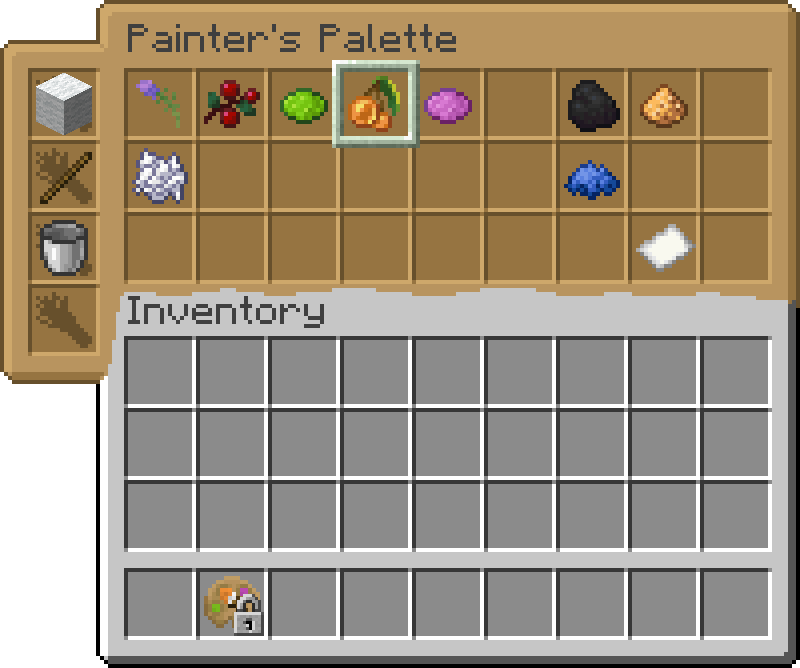
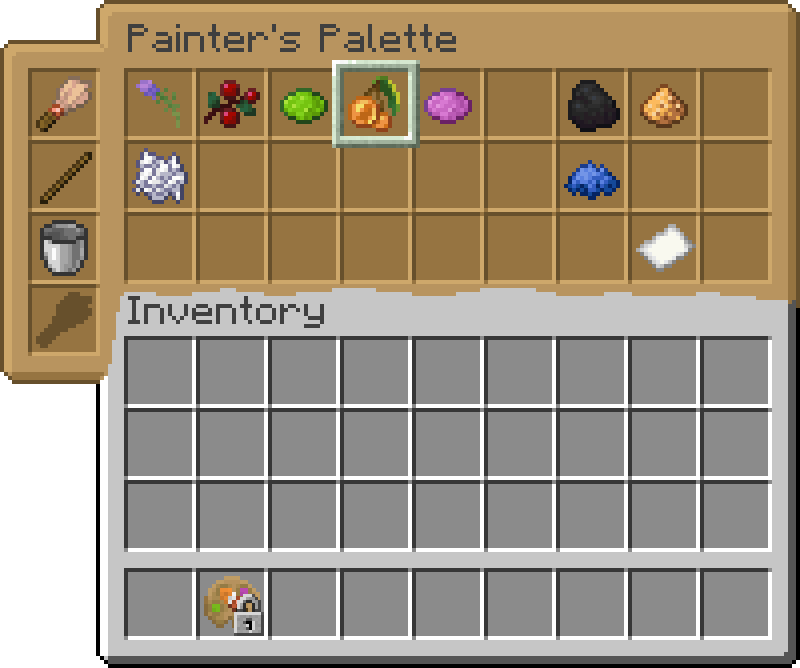
Replace wool with brush for blackboards, improve painter's palette GUI and fix some issues.

Changed region(s): [[0.0312, 0.0898, 0.125, 0.2994], [0.0312, 0.3892, 0.125, 0.5389], [0.2812, 0.8982, 0.3125, 0.9281]]

diff --git a/src/main/java/dev/lambdaurora/aurorasdeco/client/tooltip/PainterPaletteTooltipComponent.java b/src/main/java/dev/lambdaurora/aurorasdeco/client/tooltip/PainterPaletteTooltipComponent.java
@@ -20,6 +20,7 @@ package dev.lambdaurora.aurorasdeco.client.tooltip;
 import com.mojang.blaze3d.systems.RenderSystem;
 import dev.lambdaurora.aurorasdeco.blackboard.BlackboardColor;
 import dev.lambdaurora.aurorasdeco.item.PainterPaletteItem;
+import net.minecraft.client.MinecraftClient;
 import net.minecraft.client.font.TextRenderer;
 import net.minecraft.client.gui.DrawableHelper;
 import net.minecraft.client.gui.screen.ingame.HandledScreen;
@@ -39,7 +40,7 @@ import org.quiltmc.loader.api.minecraft.ClientOnly;
  * Represents the painter's palette tooltip component.
  *
  * @author LambdAurora
- * @version 1.0.0-beta.6
+ * @version 1.0.0-beta.13
  * @since 1.0.0-beta.6
  */
 @ClientOnly
@@ -49,7 +50,8 @@ public class PainterPaletteTooltipComponent implements TooltipComponent {
 
 	public PainterPaletteTooltipComponent(PainterPaletteItem.PainterPaletteInventory inventory) {
 		this.inventory = inventory;
-		this.selectedToolText = PainterPaletteItem.getSelectedToolMessage(inventory).formatted(Formatting.GRAY);
+		var enabledFlags = MinecraftClient.getInstance().world.getEnabledFlags();
+		this.selectedToolText = PainterPaletteItem.getSelectedToolMessage(inventory, enabledFlags).formatted(Formatting.GRAY);
 	}
 
 	@Override
@@ -92,47 +94,43 @@ public class PainterPaletteTooltipComponent implements TooltipComponent {
 
 		matrices.push();
 		y += 12;
+
 		matrices.translate(x, y, 0);
-
-		this.drawSlot(matrices, 0, true, false);
-		if (!previousColorStack.isEmpty()) {
-			itemRenderer.method_32797(matrices, previousColorStack, x + 2, y + 2, inventory.getSlotOf(previousColorStack));
-			itemRenderer.method_4025(matrices, textRenderer, previousColorStack, x + 2, y + 2);
-			this.drawColorOverlay(matrices, previousColorStack);
-		}
+		this.drawSlot(matrices, itemRenderer, textRenderer, previousColorStack, inventory.getSlotOf(previousColorStack), true, false);
 
 		matrices.translate(18, 0, 0);
-		this.drawSlot(matrices, 0, false, false);
-		itemRenderer.method_32797(matrices, primaryColorStack, x + 18 + 2, y + 2, inventory.getSelectedColorSlot());
-		itemRenderer.method_4025(matrices, textRenderer, primaryColorStack, x + 18 + 2, y + 2);
-		this.drawColorOverlay(matrices, primaryColorStack);
-		HandledScreen.drawSlotHighlight(matrices, x + 1, y + 1, 0);
+		this.drawSlot(matrices, itemRenderer, textRenderer, primaryColorStack, inventory.getSelectedColorSlot(), false, false);
+		HandledScreen.drawSlotHighlight(matrices, 2, 2, 0);
 
 		matrices.translate(18, 0, 0);
-		this.drawSlot(matrices, 0, false, true);
-		if (!previousColorStack.isEmpty()) {
-			itemRenderer.method_32797(matrices, nextColorStack, x + 18 * 2 + 2, y + 2, inventory.getSlotOf(nextColorStack));
-			itemRenderer.method_4025(matrices, textRenderer, nextColorStack, x + 18 * 2 + 2, y + 2);
-			this.drawColorOverlay(matrices, nextColorStack);
-		}
+		this.drawSlot(matrices, itemRenderer, textRenderer, nextColorStack, inventory.getSlotOf(nextColorStack), false, true);
 
 		matrices.pop();
 	}
 
-	private void drawSlot(MatrixStack matrices, int z, boolean start, boolean end) {
-		this.drawSlotPart(matrices, 1, 1, z, 0, 0, 18, 20);
+	private void drawSlot(
+			MatrixStack matrices, ItemRenderer itemRenderer, TextRenderer textRenderer, ItemStack stack,
+			int index, boolean start, boolean end
+	) {
+		this.drawSlotPart(matrices, 1, 1, 0, 0, 0, 18, 20);
 
-		if (start) this.drawSlotPart(matrices, 0, 0, z, 0, 20, 1, 1);
-		if (end) this.drawSlotPart(matrices, 0, 0, z, 0, 20, 1, 1);
+		if (start) this.drawSlotPart(matrices, 0, 0, 0, 0, 20, 1, 1);
+		if (end) this.drawSlotPart(matrices, 0, 0, 0, 0, 20, 1, 1);
 
-		this.drawSlotPart(matrices, 1, 0, z, 0, 20, 18, 1);
-		this.drawSlotPart(matrices, 1, 20, z, 0, 60, 18, 1);
+		this.drawSlotPart(matrices, 1, 0, 0, 0, 20, 18, 1);
+		this.drawSlotPart(matrices, 1, 20, 0, 0, 60, 18, 1);
 
-		if (start) this.drawSlotPart(matrices, 0, 0, z, 0, 18, 1, 20);
-		if (end) this.drawSlotPart(matrices, 18 + 1, 0, z, 0, 18, 1, 20);
+		if (start) this.drawSlotPart(matrices, 0, 0, 0, 0, 18, 1, 20);
+		if (end) this.drawSlotPart(matrices, 18 + 1, 0, 0, 0, 18, 1, 20);
 
-		if (start) this.drawSlotPart(matrices, 0, 20, z, 0, 60, 1, 1);
-		if (end) this.drawSlotPart(matrices, 18 + 1, 20, z, 0, 60, 1, 1);
+		if (start) this.drawSlotPart(matrices, 0, 20, 0, 0, 60, 1, 1);
+		if (end) this.drawSlotPart(matrices, 18 + 1, 20, 0, 0, 60, 1, 1);
+
+		if (!stack.isEmpty()) {
+			itemRenderer.method_32797(matrices, stack, 2, 2, index);
+			itemRenderer.method_4025(matrices, textRenderer, stack, 2, 2);
+			this.drawColorOverlay(matrices, stack);
+		}
 	}
 
 	private void drawColorOverlay(MatrixStack matrices, ItemStack stack) {

diff --git a/src/main/java/dev/lambdaurora/aurorasdeco/blackboard/Blackboard.java b/src/main/java/dev/lambdaurora/aurorasdeco/blackboard/Blackboard.java
@@ -21,6 +21,8 @@ import net.fabricmc.fabric.api.renderer.v1.RendererAccess;
 import net.fabricmc.fabric.api.renderer.v1.mesh.Mesh;
 import net.fabricmc.fabric.api.renderer.v1.mesh.MutableQuadView;
 import net.minecraft.client.texture.Sprite;
+import net.minecraft.feature_flags.FeatureFlagBitSet;
+import net.minecraft.feature_flags.FeatureFlags;
 import net.minecraft.item.Item;
 import net.minecraft.item.Items;
 import net.minecraft.nbt.NbtCompound;
@@ -365,28 +367,49 @@ public class Blackboard implements BlackboardHandler {
 	}
 
 	public enum DrawAction {
-		DEFAULT(null, "aurorasdeco.blackboard.tool.pixel") {
+		DEFAULT("aurorasdeco.blackboard.tool.pixel") {
+			@Override
+			public @Nullable Item getOffHandTool(FeatureFlagBitSet enabledFeatures) {
+				return null;
+			}
+
 			@Override
 			public boolean execute(BlackboardHandler blackboard, int x, int y, BlackboardDrawModifier modifier) {
 				short colorData = blackboard.getPixel(x, y);
 				return blackboard.setPixel(x, y, modifier.apply(colorData));
 			}
 		},
-		BRUSH(Items.WHITE_WOOL, "aurorasdeco.blackboard.tool.brush") {
+		BRUSH("aurorasdeco.blackboard.tool.brush") {
+			@Override
+			public @Nullable Item getOffHandTool(FeatureFlagBitSet enabledFeatures) {
+				if (enabledFeatures.hasFlag(FeatureFlags.UPDATE_1_20)) return Items.BRUSH;
+				else return Items.WHITE_WOOL;
+			}
+
 			@Override
 			public boolean execute(BlackboardHandler blackboard, int x, int y, BlackboardDrawModifier modifier) {
 				short colorData = blackboard.getPixel(x, y);
 				return blackboard.brush(x, y, modifier.apply(colorData));
 			}
 		},
-		FILL(Items.BUCKET, "aurorasdeco.blackboard.tool.fill") {
+		FILL("aurorasdeco.blackboard.tool.fill") {
+			@Override
+			public @Nullable Item getOffHandTool(FeatureFlagBitSet enabledFeatures) {
+				return Items.BUCKET;
+			}
+
 			@Override
 			public boolean execute(BlackboardHandler blackboard, int x, int y, BlackboardDrawModifier modifier) {
 				short colorData = blackboard.getPixel(x, y);
 				return blackboard.fill(x, y, modifier.apply(colorData));
 			}
 		},
-		REPLACE(Items.ENDER_PEARL, "aurorasdeco.blackboard.tool.replace") {
+		REPLACE("aurorasdeco.blackboard.tool.replace") {
+			@Override
+			public @Nullable Item getOffHandTool(FeatureFlagBitSet enabledFeatures) {
+				return Items.ENDER_PEARL;
+			}
+
 			@Override
 			public boolean execute(BlackboardHandler blackboard, int x, int y, BlackboardDrawModifier modifier) {
 				short colorData = blackboard.getPixel(x, y);
@@ -396,21 +419,17 @@ public class Blackboard implements BlackboardHandler {
 
 		public static final List<DrawAction> ACTIONS = List.of(values());
 
-		private final Item offhandTool;
 		private final String translationKey;
 
-		DrawAction(@Nullable Item offhandTool, @NotNull String translationKey) {
-			this.offhandTool = offhandTool;
+		DrawAction(@NotNull String translationKey) {
 			this.translationKey = translationKey;
-		}
-
-		public @Nullable Item getOffHandTool() {
-			return this.offhandTool;
 		}
 
 		public Text getName() {
 			return Text.translatable(this.translationKey);
 		}
+
+		public abstract @Nullable Item getOffHandTool(FeatureFlagBitSet enabledFeatures);
 
 		public abstract boolean execute(BlackboardHandler blackboard, int x, int y, BlackboardDrawModifier modifier);
 	}

diff --git a/src/main/java/dev/lambdaurora/aurorasdeco/item/PainterPaletteItem.java b/src/main/java/dev/lambdaurora/aurorasdeco/item/PainterPaletteItem.java
@@ -26,6 +26,7 @@ import dev.lambdaurora.aurorasdeco.screen.PainterPaletteScreenHandler;
 import dev.lambdaurora.aurorasdeco.tooltip.PainterPaletteTooltipData;
 import net.minecraft.client.item.TooltipData;
 import net.minecraft.entity.player.PlayerEntity;
+import net.minecraft.feature_flags.FeatureFlagBitSet;
 import net.minecraft.inventory.SimpleInventory;
 import net.minecraft.inventory.StackReference;
 import net.minecraft.item.Item;
@@ -52,7 +53,7 @@ import java.util.Optional;
  * Represents a painter's palette item which can be used for easier painting on blackboards.
  *
  * @author LambdAurora
- * @version 1.0.0-beta.11
+ * @version 1.0.0-beta.13
  * @since 1.0.0-beta.6
  */
 public class PainterPaletteItem extends Item {
@@ -75,10 +76,10 @@ public class PainterPaletteItem extends Item {
 		return inventory.getSelectedTool();
 	}
 
-	public static MutableText getSelectedToolMessage(PainterPaletteInventory inventory) {
+	public static MutableText getSelectedToolMessage(PainterPaletteInventory inventory, FeatureFlagBitSet enabledFeatures) {
 		Text toolName = Blackboard.DrawAction.ACTIONS.stream()
 				.filter(drawAction -> {
-					var offHandTool = drawAction.getOffHandTool();
+					var offHandTool = drawAction.getOffHandTool(enabledFeatures);
 					var selectedTool = inventory.getSelectedTool();
 
 					return (offHandTool == null && selectedTool.isEmpty()) || selectedTool.isOf(offHandTool);
@@ -179,7 +180,7 @@ public class PainterPaletteItem extends Item {
 					else paletteStack.removeSubNbt("inventory");
 					player.playerScreenHandler.sendContentUpdates();
 
-					var message = getSelectedToolMessage(inventory);
+					var message = getSelectedToolMessage(inventory, player.getWorld().getEnabledFlags());
 					BlackboardColor primaryColor = BlackboardColor.fromItem(inventory.getSelectedColor().getItem());
 
 					if (primaryColor != null && primaryColor != BlackboardColor.EMPTY) message.styled(style -> style.withColor(primaryColor.getColor()));
@@ -227,7 +228,6 @@ public class PainterPaletteItem extends Item {
 		private static final int SIZE = COLOR_SIZE + TOOLS_SIZE;
 		private static final String SELECTED_COLOR_KEY = "selected_color";
 		private static final String SELECTED_TOOL_KEY = "selected_tool";
-
 		private byte selectedColor = 0;
 		private byte selectedTool = -1;
 

diff --git a/src/main/java/dev/lambdaurora/aurorasdeco/client/screen/PainterPaletteScreen.java b/src/main/java/dev/lambdaurora/aurorasdeco/client/screen/PainterPaletteScreen.java
@@ -36,7 +36,7 @@ import org.quiltmc.loader.api.minecraft.ClientOnly;
  * Represents the painter's palette container screen.
  *
  * @author LambdAurora
- * @version 1.0.0-beta.6
+ * @version 1.0.0-beta.13
  * @since 1.0.0-beta.6
  */
 @ClientOnly
@@ -69,6 +69,22 @@ public class PainterPaletteScreen extends HandledScreen<PainterPaletteScreenHand
 	@Override
 	public void render(MatrixStack matrices, int mouseX, int mouseY, float delta) {
 		this.renderBackground(matrices);
+
+		for (var slot : this.handler.slots) {
+			if (slot instanceof BlackboardToolSlot) {
+				RenderSystem.setShaderTexture(0, TEXTURE);
+
+				int x = this.getBackgroundX() + slot.x + 24 - 1;
+				int y = this.getBackgroundY() + slot.y - 1;
+
+				if (slot.getStack().isEmpty()) {
+					drawTexture(matrices, x, y, this.backgroundWidth + 26, 24, 18, 18, 256, 256);
+				} else {
+					drawTexture(matrices, x, y, this.backgroundWidth + 26, 42, 18, 18, 256, 256);
+				}
+			}
+		}
+
 		super.render(matrices, mouseX, mouseY, delta);
 
 		matrices.push();
@@ -88,13 +104,17 @@ public class PainterPaletteScreen extends HandledScreen<PainterPaletteScreenHand
 
 				matrices.push();
 				matrices.translate(slot.x + 24, slot.y, 0);
-				drawTexture(matrices, -3, -3, this.backgroundWidth + 24, 0, 22, 22, 256, 256);
+				this.drawSelectedIndicator(matrices);
 				matrices.pop();
 			}
 		}
 		matrices.pop();
 
 		this.drawMouseoverTooltip(matrices, mouseX, mouseY);
+	}
+
+	private void drawSelectedIndicator(MatrixStack matrices) {
+		drawTexture(matrices, -3, -3, this.backgroundWidth + 24, 0, 22, 22, 256, 256);
 	}
 
 	@Override

diff --git a/src/main/java/dev/lambdaurora/aurorasdeco/screen/slot/BlackboardToolSlot.java b/src/main/java/dev/lambdaurora/aurorasdeco/screen/slot/BlackboardToolSlot.java
@@ -19,6 +19,7 @@ package dev.lambdaurora.aurorasdeco.screen.slot;
 
 import dev.lambdaurora.aurorasdeco.blackboard.Blackboard;
 import dev.lambdaurora.aurorasdeco.blackboard.BlackboardDrawModifier;
+import net.minecraft.feature_flags.FeatureFlagBitSet;
 import net.minecraft.inventory.Inventory;
 import net.minecraft.item.ItemStack;
 import net.minecraft.item.Items;
@@ -28,19 +29,22 @@ import net.minecraft.screen.slot.Slot;
  * Represents a slot that only accepts items that can be used as {@link BlackboardDrawModifier blackboard modifiers}.
  *
  * @author LambdAurora
- * @version 1.0.0-beta.6
+ * @version 1.0.0-beta.13
  * @since 1.0.0-beta.6
  */
 public class BlackboardToolSlot extends Slot {
-	public BlackboardToolSlot(Inventory inventory, int index, int x, int y) {
+	private final FeatureFlagBitSet enabledFeatures;
+
+	public BlackboardToolSlot(Inventory inventory, FeatureFlagBitSet enabledFeatures, int index, int x, int y) {
 		super(inventory, index, x, y);
+		this.enabledFeatures = enabledFeatures;
 	}
 
 	@Override
 	public boolean canInsert(ItemStack stack) {
 		if (stack.isOf(Items.STICK)) return true;
 		return Blackboard.DrawAction.ACTIONS.stream()
-				.filter(drawAction -> drawAction.getOffHandTool() != null)
-				.anyMatch(drawAction -> drawAction.getOffHandTool() == stack.getItem());
+				.filter(drawAction -> drawAction.getOffHandTool(this.enabledFeatures) != null)
+				.anyMatch(drawAction -> drawAction.getOffHandTool(this.enabledFeatures) == stack.getItem());
 	}
 }

diff --git a/src/main/java/dev/lambdaurora/aurorasdeco/block/BlackboardBlock.java b/src/main/java/dev/lambdaurora/aurorasdeco/block/BlackboardBlock.java
@@ -36,10 +36,7 @@ import net.minecraft.entity.LivingEntity;
 import net.minecraft.entity.player.PlayerEntity;
 import net.minecraft.fluid.FluidState;
 import net.minecraft.fluid.Fluids;
-import net.minecraft.item.BlockItem;
-import net.minecraft.item.ItemPlacementContext;
-import net.minecraft.item.ItemStack;
-import net.minecraft.item.Items;
+import net.minecraft.item.*;
 import net.minecraft.nbt.NbtCompound;
 import net.minecraft.potion.PotionUtil;
 import net.minecraft.potion.Potions;
@@ -287,7 +284,9 @@ public class BlackboardBlock extends BlockWithEntity implements Waterloggable {
 
 					Blackboard.DrawAction action = Blackboard.DrawAction.DEFAULT;
 					for (var possibleAction : Blackboard.DrawAction.ACTIONS) {
-						if (possibleAction.getOffHandTool() != null && offhand.isOf(possibleAction.getOffHandTool())) {
+						Item offHandTool = possibleAction.getOffHandTool(world.getEnabledFlags());
+
+						if (offHandTool != null && offhand.isOf(offHandTool)) {
 							action = possibleAction;
 							break;
 						}

diff --git a/src/main/java/dev/lambdaurora/aurorasdeco/screen/PainterPaletteScreenHandler.java b/src/main/java/dev/lambdaurora/aurorasdeco/screen/PainterPaletteScreenHandler.java
@@ -35,7 +35,7 @@ import org.jetbrains.annotations.NotNull;
  * Represents the painter's palette screen handler.
  *
  * @author LambdAurora
- * @version 1.0.0-beta.6
+ * @version 1.0.0-beta.13
  * @since 1.0.0-beta.6
  */
 public class PainterPaletteScreenHandler extends NestedScreenHandler {
@@ -58,7 +58,9 @@ public class PainterPaletteScreenHandler extends NestedScreenHandler {
 		}
 
 		for (int row = 0; row < 4; ++row) {
-			this.addSlot(new BlackboardToolSlot(inventory, (inventory.size() - 4) + row, -16, 18 + row * 18));
+			this.addSlot(new BlackboardToolSlot(
+					inventory, playerInventory.player.getWorld().getEnabledFlags(), (inventory.size() - 4) + row, -16, 18 + row * 18
+			));
 		}
 
 		this.addPlayerInventory(playerInventory, 8, 85);

diff --git a/wiki/blackboards.md b/wiki/blackboards.md
@@ -106,7 +106,7 @@ You can shade a pixel using bone meal to lighten it, or coal to darken it;
 and you can use glowstone dust to toggle the saturation state of a pixel.
 
 To draw multiple things at once, you can hold in your off-hand:
- - a white wool to use a "brush".
+ - a brush (or white wool before 1.20).
  - a bucket to fill an area.
  - an ender-pearl to replace a color.
  - a stick to draw lines.

diff --git a/wiki/painter_palette.md b/wiki/painter_palette.md
@@ -19,6 +19,22 @@ This item have an inventory capable of holding different blackboard-based <a hre
 
 ## Crafting
 
+### 1.20+
+
+<table class="crafting-grid">
+<thead>
+    <th>Crafting Table</th>
+</thead>
+<tbody>
+    <tr>
+        <td>Brush</td>
+        <td>Planks</td>
+    </tr>
+</tbody>
+</table>
+
+### 1.19
+
 <table class="crafting-grid">
 <thead>
     <th>Crafting Table</th>
